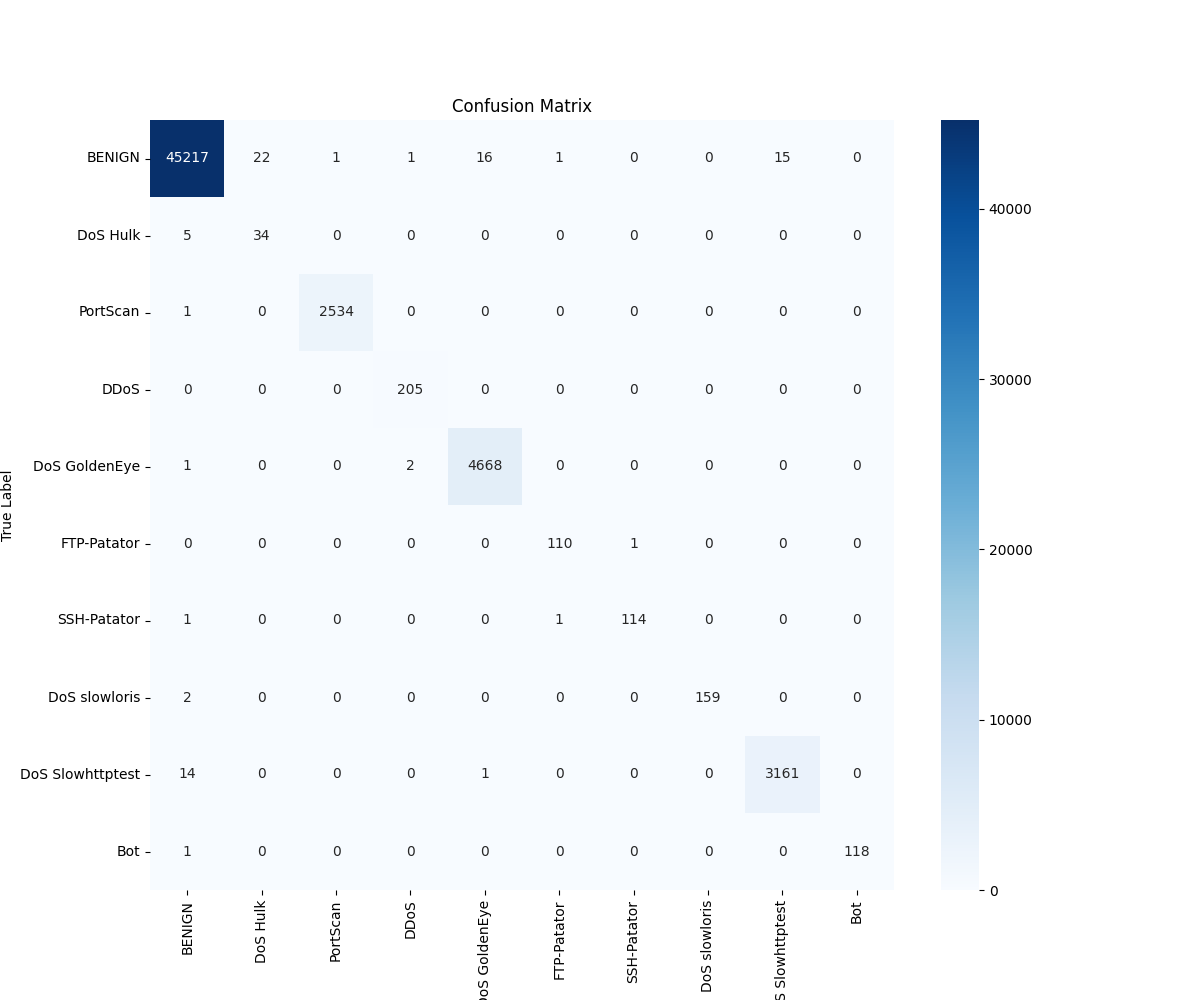
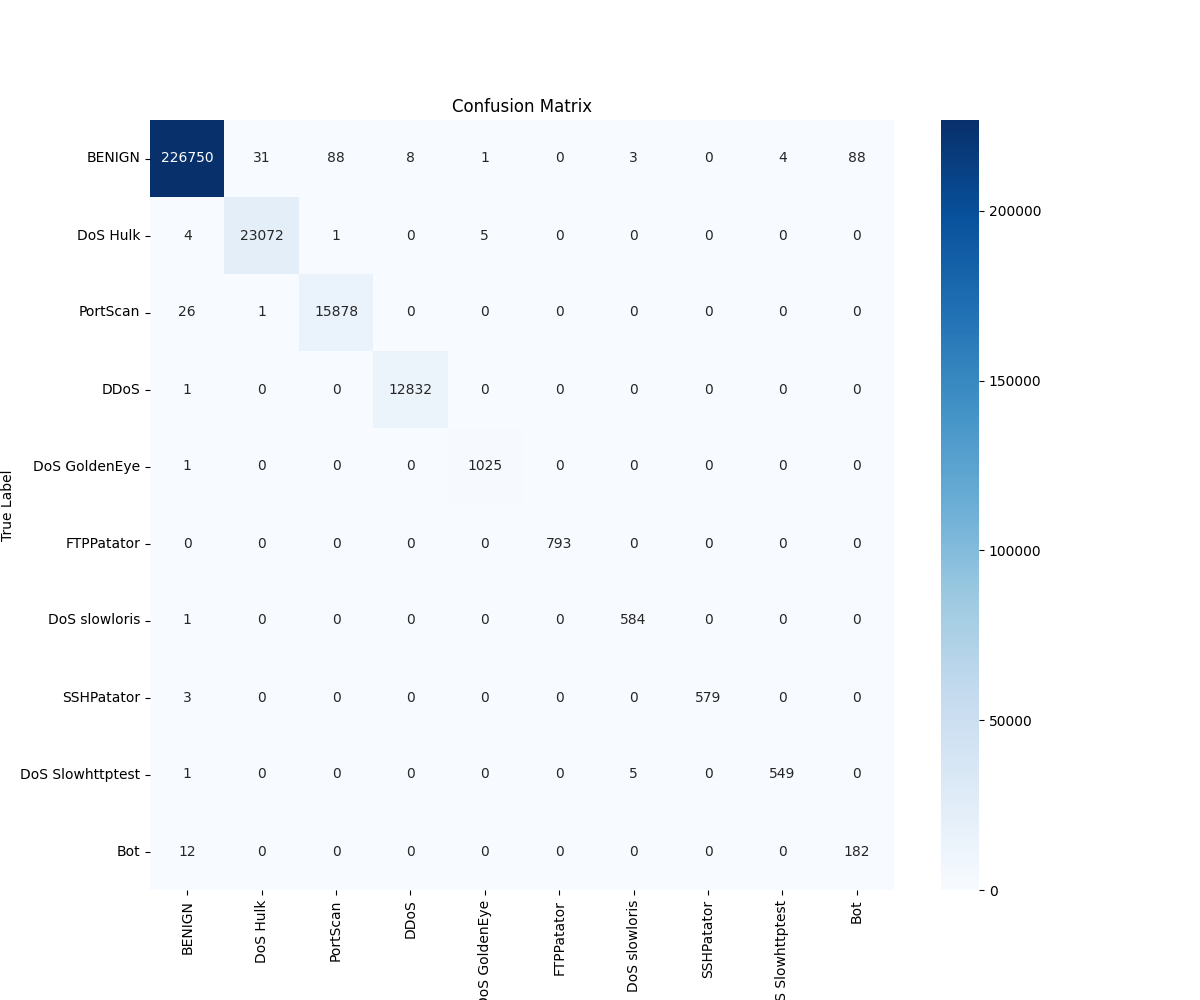
improve accuracy

diff --git a/main.py b/main.py
@@ -4,43 +4,21 @@ import os
 import logging
 import pickle
 import time
+import joblib
 from sklearn.model_selection import train_test_split, cross_val_score, StratifiedKFold
 from sklearn.preprocessing import StandardScaler
-from sklearn.ensemble import RandomForestClassifier, IsolationForest
+from sklearn.ensemble import RandomForestClassifier
 from sklearn.metrics import classification_report, confusion_matrix
 from sklearn.pipeline import Pipeline
 import matplotlib.pyplot as plt
 import seaborn as sns
 from imblearn.over_sampling import SMOTE
 from imblearn.pipeline import Pipeline as ImbPipeline
-from joblib import Parallel, delayed
 from sklearn.feature_selection import SelectFromModel
 from collections import Counter
 
 # Set up logging to track the progress and any issues
 logging.basicConfig(level=logging.INFO, format='%(asctime)s - %(levelname)s - %(message)s')
-
-# Function to display a progress bar in the console
-def print_progress(iteration, total, prefix='', suffix='', decimals=1, bar_length=50):
-    """
-    Call in a loop to create terminal progress bar
-    @params:
-        iteration   - Required  : current iteration (Int)
-        total       - Required  : total iterations (Int)
-        prefix      - Optional  : prefix string (Str)
-        suffix      - Optional  : suffix string (Str)
-        decimals    - Optional  : positive number of decimals in percent complete (Int)
-        bar_length  - Optional  : character length of bar (Int)
-    """
-    str_format = "{0:." + str(decimals) + "f}"
-    percents = str_format.format(100 * (iteration / float(total)))
-    filled_length = int(round(bar_length * iteration / float(total)))
-    bar = '█' * filled_length + '-' * (bar_length - filled_length)
-
-    print(f'\r{prefix} |{bar}| {percents}% {suffix}', end='')
-
-    if iteration == total:
-        print()
 
 # Function to load all CSV files from a directory into a single DataFrame
 def load_all_csv_files(directory):
@@ -62,8 +40,8 @@ def load_all_csv_files(directory):
             # Construct full file path
             file_path = os.path.join(directory, filename)
             
-            # Load CSV file into a DataFrame
-            df = pd.read_csv(file_path, low_memory=False)
+            # Load CSV file into a DataFrame with proper encoding
+            df = pd.read_csv(file_path, low_memory=False, encoding='ISO-8859-1')
             
             # Add a column to identify the source file
             df['source_file'] = filename
@@ -102,17 +80,21 @@ def load_and_preprocess_data(directory, cache_file='full_dataset_cache.pkl'):
     return full_dataset
 
 # Function to prepare features (X) and target (y) for machine learning
-def prepare_features_and_target(df, sample_size=0.1, min_samples=10):
-    # Sample a subset of the data to reduce processing time
+def prepare_features_and_target(df, sample_size=0.5, min_samples=10):
+    # Sample a larger subset of the data
     df_sampled = df.sample(frac=sample_size, random_state=42)
     
     # Identify the columns for the label and source file
     label_col = df_sampled.columns[df_sampled.columns.str.strip() == 'Label'][0]
     source_file_col = df_sampled.columns[df_sampled.columns.str.strip() == 'source_file'][0]
     
+    # Clean labels
+    df_sampled[label_col] = df_sampled[label_col].str.replace('-', '', regex=False)  # Remove hyphens
+    df_sampled[label_col] = df_sampled[label_col].str.strip()
+    
     # Print unique values in the Label column
     print("Unique attack types in the dataset:")
-    print(df[label_col].unique())
+    print(df_sampled[label_col].unique())
     
     # Remove classes with too few samples to ensure reliable learning
     class_counts = df_sampled[label_col].value_counts()
@@ -129,77 +111,56 @@ def prepare_features_and_target(df, sample_size=0.1, min_samples=10):
     X = X.replace([np.inf, -np.inf], np.nan)
     X = X.dropna()
     # Ensure y matches the rows in X after dropping NaN values
-    y = y[X.index]
+    y = y.loc[X.index]
     
-    # Add feature selection step
-    selector = SelectFromModel(RandomForestClassifier(n_estimators=100, random_state=42, n_jobs=-1))
-    selector.fit(X, y)
-    
-    # Get the selected feature names
-    selected_features = X.columns[selector.get_support()]
-    
-    # Apply the transformation
-    X_selected = selector.transform(X)
-    
-    # Convert X_selected back to a DataFrame with the correct feature names
-    X_selected = pd.DataFrame(X_selected, columns=selected_features, index=X.index)
-    
-    return X_selected, y
+    return X, y
 
 # Function to train and evaluate the machine learning model
-def train_and_evaluate_model(X, y):
+def train_and_evaluate_model(X, y, model_cache_file='trained_model_cache.joblib'):
     logging.info("Starting model training and evaluation process...")
     
-    # Split data into training and testing sets
-    X_train, X_test, y_train, y_test = train_test_split(X, y, test_size=0.2, random_state=42, stratify=y)
-    logging.info(f"Train set size: {X_train.shape[0]}, Test set size: {X_test.shape[0]}")
-    
-    # Calculate class distribution
-    class_counts = Counter(y_train)
-    logging.info(f"Class distribution before SMOTE: {class_counts}")
-    
-    # Define sampling strategy
-    sampling_strategy = {
-        'Web Attack Brute Force': int(class_counts['BENIGN'] * 0.1),  # 10% of majority class
-        'Web Attack XSS': int(class_counts['BENIGN'] * 0.1),  # 10% of majority class
-        'Bot': int(class_counts['BENIGN'] * 0.05),  # 5% of majority class
-    }
-    
-    # For other minority classes, oversample to 1% of majority class
-    for class_name, count in class_counts.items():
-        if count < class_counts['BENIGN'] and class_name not in sampling_strategy:
-            sampling_strategy[class_name] = max(count, int(class_counts['BENIGN'] * 0.01))
-    
-    # Remove any classes from sampling_strategy that are not in the dataset
-    sampling_strategy = {k: v for k, v in sampling_strategy.items() if k in class_counts}
-    
-    # Add Isolation Forest for anomaly detection
-    logging.info("Training Isolation Forest for anomaly detection...")
-    iso_forest = IsolationForest(contamination=0.1, random_state=42, n_jobs=-1)
-    anomaly_labels = iso_forest.fit_predict(X)
-    
-    # Identify anomalies
-    anomalies = X[anomaly_labels == -1]
-    logging.info(f"Number of anomalies detected: {len(anomalies)}")
-
-    # Create a pipeline that scales the data, applies aggressive SMOTE, and then uses a Random Forest classifier
-    pipeline = ImbPipeline([
-        ('scaler', StandardScaler()),
-        ('smote', SMOTE(sampling_strategy=sampling_strategy, random_state=42)),
-        ('classifier', RandomForestClassifier(n_estimators=50, random_state=42, n_jobs=-1))
-    ])
-    
-    # Train the model
-    logging.info("Training model...")
-    start_time = time.time()
-    pipeline.fit(X_train, y_train)
-    end_time = time.time()
-    logging.info(f"Training completed in {end_time - start_time:.2f} seconds")
-    
-    # Calculate class distribution after SMOTE
-    y_resampled = pipeline.named_steps['smote'].fit_resample(X_train, y_train)[1]
-    class_counts_after = Counter(y_resampled)
-    logging.info(f"Class distribution after SMOTE: {class_counts_after}")
+    # Check if a cached model exists
+    if os.path.exists(model_cache_file):
+        logging.info("Loading model from cache...")
+        pipeline = joblib.load(model_cache_file)
+        
+        # Split data into training and testing sets
+        _, X_test, _, y_test = train_test_split(X, y, test_size=0.2, random_state=42, stratify=y)
+    else:
+        # Split data into training and testing sets
+        X_train, X_test, y_train, y_test = train_test_split(X, y, test_size=0.2, random_state=42, stratify=y)
+        logging.info(f"Train set size: {X_train.shape[0]}, Test set size: {X_test.shape[0]}")
+        
+        # Calculate class distribution
+        class_counts = Counter(y_train)
+        logging.info(f"Class distribution in training set: {class_counts}")
+        
+        # Define the pipeline
+        pipeline = ImbPipeline([
+            ('feature_selection', SelectFromModel(RandomForestClassifier(n_estimators=100, random_state=42, n_jobs=-1))),
+            ('scaler', StandardScaler()),
+            ('smote', SMOTE(sampling_strategy='auto', random_state=42, n_jobs=-1)),
+            ('classifier', RandomForestClassifier(n_estimators=100, random_state=42, n_jobs=-1, class_weight='balanced'))
+        ])
+        
+        # Train the model
+        logging.info("Training model...")
+        start_time = time.time()
+        pipeline.fit(X_train, y_train)
+        end_time = time.time()
+        logging.info(f"Training completed in {end_time - start_time:.2f} seconds")
+        
+        # Cache the trained model
+        logging.info("Saving model to cache...")
+        joblib.dump(pipeline, model_cache_file)
+        
+        # Calculate class distribution after SMOTE
+        X_resampled, y_resampled = pipeline.named_steps['smote'].fit_resample(
+            pipeline.named_steps['feature_selection'].transform(X_train),
+            y_train
+        )
+        class_counts_after = Counter(y_resampled)
+        logging.info(f"Class distribution after SMOTE: {class_counts_after}")
     
     # Make predictions on the test set
     logging.info("Making predictions on test set...")
@@ -213,39 +174,44 @@ def train_and_evaluate_model(X, y):
     
     logging.info("Model evaluation completed.")
     
-    return pipeline, X_test, y_test, y_pred, anomalies
+    return pipeline, X_test, y_test, y_pred
 
 # Function to plot a confusion matrix of model predictions
 def plot_confusion_matrix(y_test, y_pred, top_n=10):
-    cm = confusion_matrix(y_test, y_pred)
     unique_labels = np.unique(np.concatenate((y_test, y_pred)))
     
     if len(unique_labels) > top_n:
         logging.info(f"Too many classes ({len(unique_labels)}). Limiting to top {top_n} most frequent.")
         label_counts = pd.Series(y_test).value_counts()
         top_labels = label_counts.nlargest(top_n).index
-        mask = np.isin(y_test, top_labels) & np.isin(y_pred, top_labels)
-        cm = confusion_matrix(y_test[mask], y_pred[mask])
-        unique_labels = top_labels
+        mask = np.isin(y_test, top_labels)
+        y_test_filtered = y_test[mask]
+        y_pred_filtered = y_pred[mask]
+        cm = confusion_matrix(y_test_filtered, y_pred_filtered, labels=top_labels)
+    else:
+        cm = confusion_matrix(y_test, y_pred, labels=unique_labels)
+        top_labels = unique_labels
     
     plt.figure(figsize=(12, 10))
     sns.heatmap(cm, annot=True, fmt='d', cmap='Blues', 
-                xticklabels=unique_labels, yticklabels=unique_labels)
+                xticklabels=top_labels, yticklabels=top_labels)
     plt.title('Confusion Matrix')
     plt.ylabel('True Label')
     plt.xlabel('Predicted Label')
     plt.savefig('confusion_matrix.png')
     plt.close()
 
+    logging.info("Confusion matrix saved as 'confusion_matrix.png'")
+
 # Function to plot feature importance from the Random Forest model
 def plot_feature_importance(pipeline, X):
     importances = pipeline.named_steps['classifier'].feature_importances_
     
-    # Ensure X is a DataFrame
-    if not isinstance(X, pd.DataFrame):
-        raise ValueError("X must be a pandas DataFrame with named columns")
+    # Get the selected feature names from feature selection
+    selector_support = pipeline.named_steps['feature_selection'].get_support()
+    selected_features = X.columns[selector_support]
     
-    feature_importances = pd.Series(importances, index=X.columns).sort_values(ascending=False)
+    feature_importances = pd.Series(importances, index=selected_features).sort_values(ascending=False)
     
     plt.figure(figsize=(12, 10))
     feature_importances[:20].plot(kind='bar')
@@ -268,10 +234,10 @@ def main():
         full_dataset = load_and_preprocess_data(directory)
         
         # Prepare features and target for machine learning
-        X, y = prepare_features_and_target(full_dataset)
+        X, y = prepare_features_and_target(full_dataset, sample_size=0.5)
         
         # Train and evaluate the model
-        pipeline, X_test, y_test, y_pred, anomalies = train_and_evaluate_model(X, y)
+        pipeline, X_test, y_test, y_pred = train_and_evaluate_model(X, y)
         
         # Generate and save visualizations
         plot_confusion_matrix(y_test, y_pred)
@@ -280,10 +246,6 @@ def main():
         plot_feature_importance(pipeline, X)
         logging.info("Feature importance plot saved as 'feature_importance.png'")
         
-        # Save anomalies to a CSV file
-        anomalies.to_csv('anomalies.csv', index=False)
-        logging.info("Anomalies saved to 'anomalies.csv'")
-
         logging.info("Process completed!")
     
     except Exception as e:
